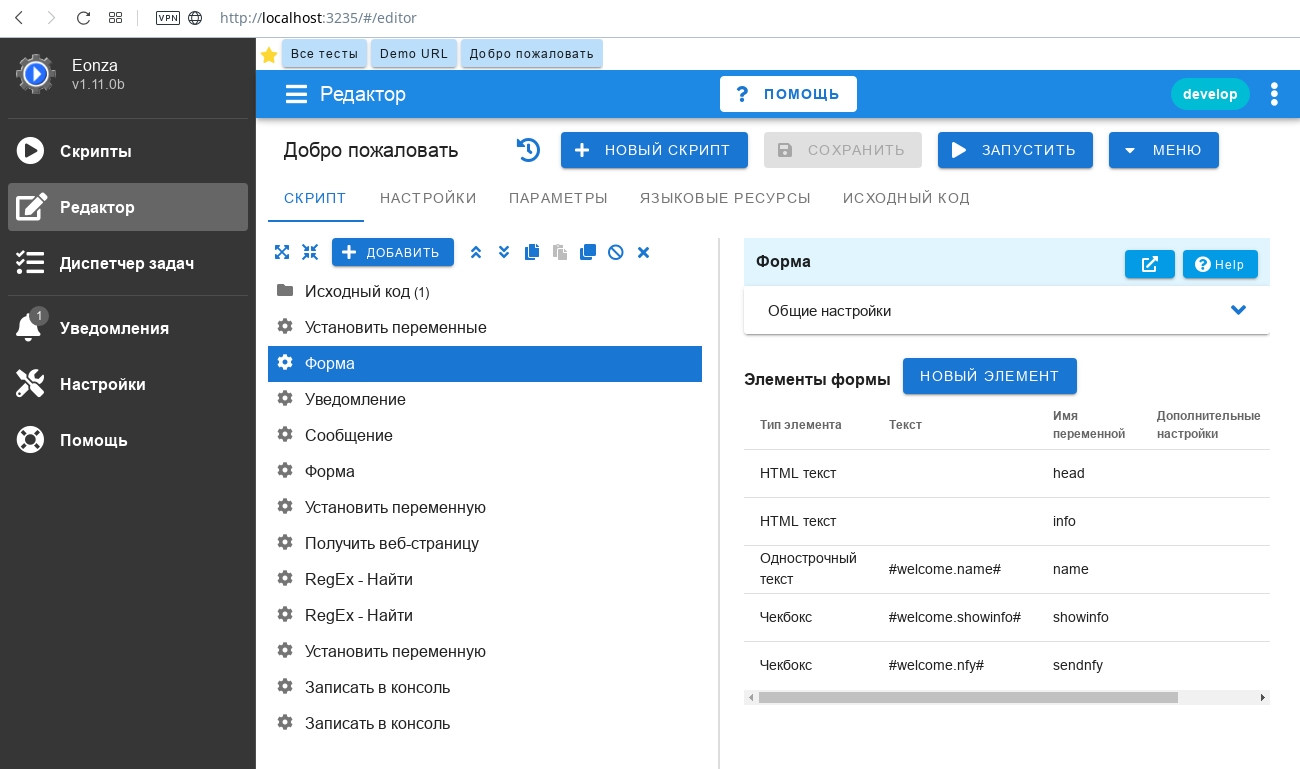
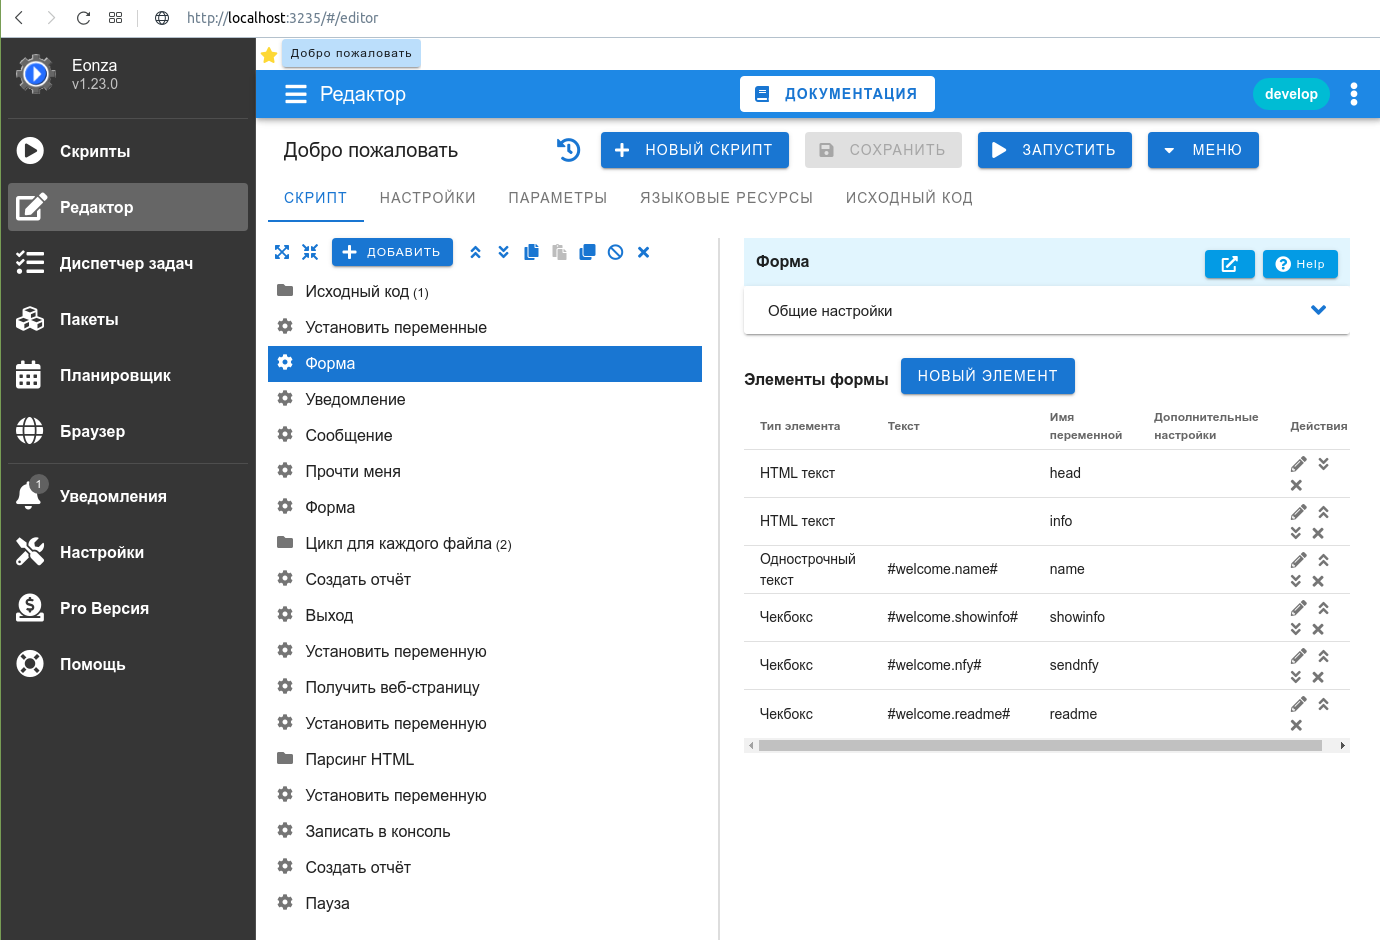
Add packages

diff --git a/ru/docs/packages.md b/ru/docs/packages.md
@@ -1,0 +1,14 @@
+---
+title: Закладка Пакеты в программе Eonza
+desc: Документация по закладке Пакеты в программе Eonza.
+---
+# Пакеты
+
+**v1.23**  
+Пакет - это набор скриптов, которые предназначены для работы с определённой внешней программой или сервисом. Также пакет может объединять скрипты, которые реализуют действия с одними и теми же объектами. Каждый пакет может иметь несколько параметров, которые определяются в диалоговом окне *Настройки*. Эти параметры могут использоваться в любом скрипте пакета. 
+
+По умолчанию в программе Eonza доступны только скрипты стандартной библиотеки. Если вам нужны скрипты определённого пакета, то достаточно установить его. В этом случае, в закладке *Скрипты* появится папка с именем пакета и содержащая его скрипты. Скрипты пакета защищены от изменения и удаления. Если вы перестали пользоваться возможностями какого-то пакета, то можете удалить его. В этом случае, папка пакета удалиться из общего списка скриптов. Настройки пакета будут сохранены и восстановятся, если пакет будет снова установлен в дальнейшем.
+
+%html.packages%
+
+Вы можете познакомиться с [документацией по всем доступным пакетам](/ru/packages/index.html).

diff --git a/ru/docs/user-guide.md b/ru/docs/user-guide.md
@@ -11,7 +11,9 @@ img:
 * [**Скрипты**](scripts.html). Здесь вы можете быстро находить нужный скрипт, а затем запускать его или открывать в редакторе.
 * [**Редактор**](editor.html) дает возможность создавать и изменять скрипты.
 * [**Диспетчер задач**](task-manager.html) позволяет управлять работающими скриптами, а также смотреть историю запусков и результаты работы завершившихся скриптов.
+* [**Пакеты**](packages.html) содержит пакеты скриптов для работы с внешними программами, объектами и сервисами.
 * [**Планировщик**](scheduler.html) дает возможность запускать скрипты по таймеру или при возникновении событий.
+* [**Браузер**](browser.html) содержит скрипты, которые доступны для запуска в Chrome расширении Eonza.
 * [**Уведомления**](notifications.html) содержит полученные уведомления.
 * [**Настройки**](settings.html) содержат настраиваемые опции для работы с программой.
 * [**Помощь**](help.html) содержат форму обратной связи и информацию о программе.

diff --git a/en/docs/packages.md b/en/docs/packages.md
@@ -1,0 +1,18 @@
+---
+title: The Packages tab in the Eonza program
+desc: Documentation for the Packages tab in Eonza automation software.
+img:
+   packages: packages.png
+html:
+   packages: '<img src="%img.packages%" style="margin: 1em 1em;"/>'
+---
+# Packages
+
+**v1.23**  
+Package is a set of scripts designed to work with a specific external program or service. A package may also combine scripts that implement actions with the same objects. Each package can have several parameters, which are defined in the *Settings* dialog box. These parameters can be used in any script of the package. 
+
+By default, only standard library scripts are available in the Eonza program. If you need scripts of a certain package, you just need to install it. In this case, you will see a folder with the package name and containing its scripts in the *Scripts* tab. Scripts of the package are protected from modification and deletion. If you stop using the features of a package, you can uninstall it. In this case, the package folder will be removed from the general list of scripts. The package's settings will be saved and restored if the package is installed again in the future.
+
+%html.packages%
+
+You can read [documentation on for available packages](/packages/index.html).

diff --git a/en/docs/user-guide.md b/en/docs/user-guide.md
@@ -13,7 +13,9 @@ This manual describes the main features of the Eonza program, which is designed 
 * [**Scripts**](scripts.html). Here you can quickly find the necessary script and then launch it or open it in the editor.
 * [**Editor**](editor.html) allows you to create and modify scripts.
 * [**Task manager**](task-manager.html) allows you to manage the running scripts, as well as to view the history of launches and the results of completed scripts.
+* [**Packages**](packages.html) contains script packages for working with external programs, objects and services.
 * [**Scheduler**](scheduler.html) allows you to run scripts on a timer or when events occur.
+* [**Browser**](browser.html) contains scripts that are available for launching in Chrome extension Eonza.
 * [**Notifications**](notifications.html) contains received notifications.
 * [**Settings**](settings.html) contain customizable options for working with the program.
 * [**Help**](help.html) contains a feedback form and information about the program.
